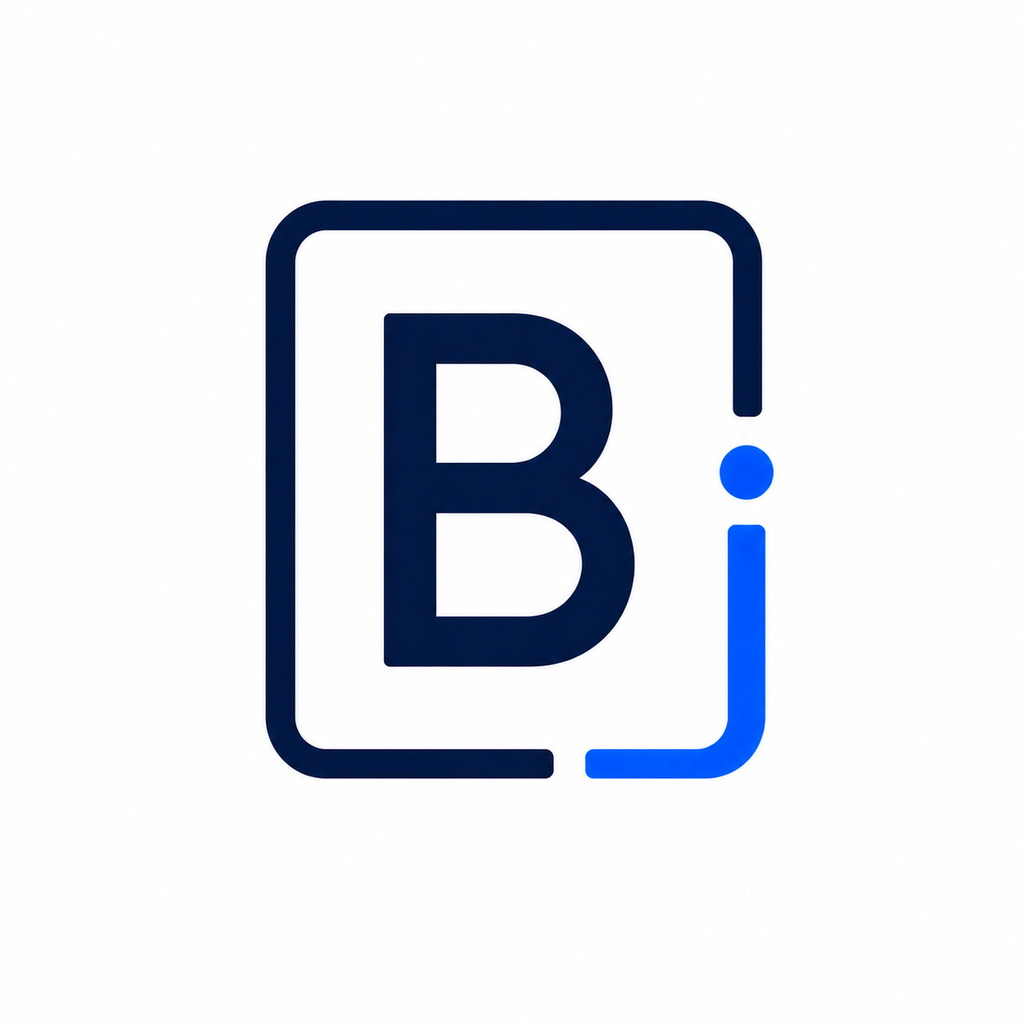
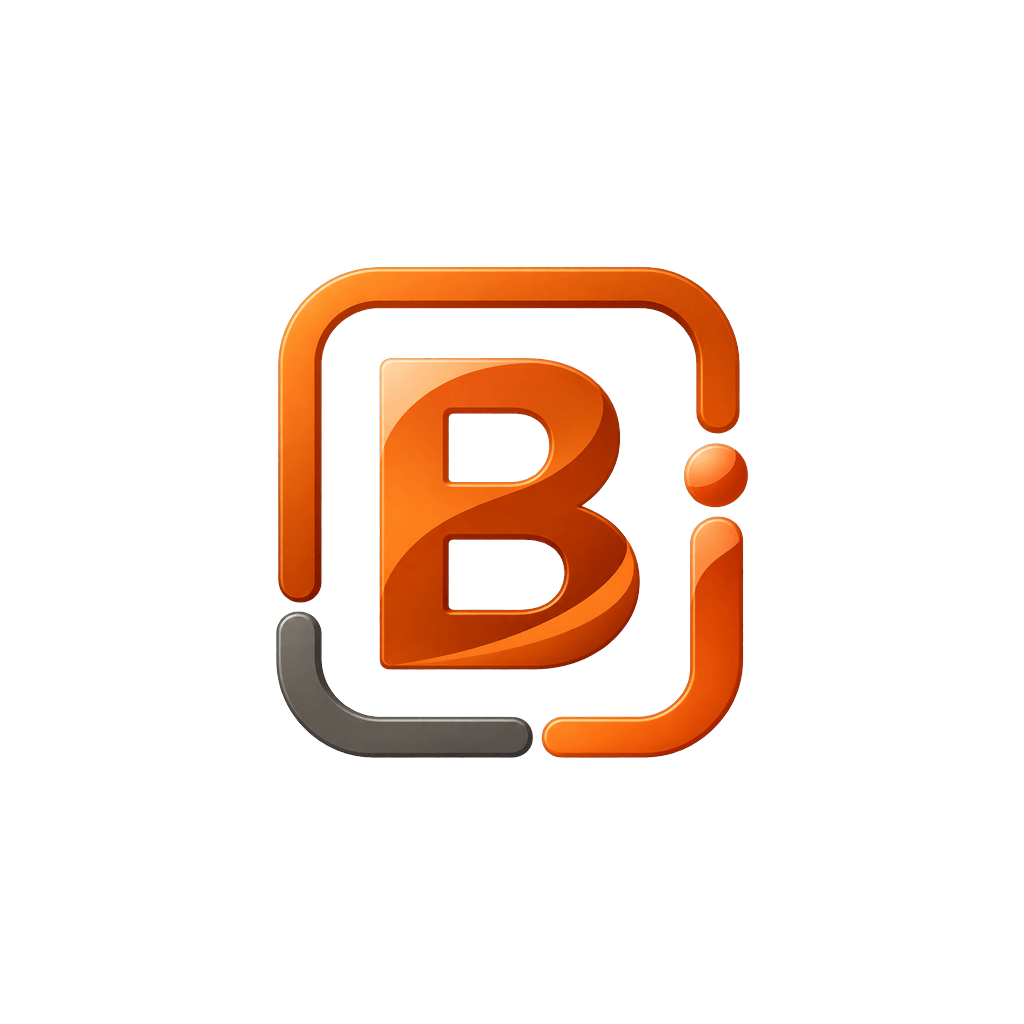
feat: rebrand accent colors from indigo to orange
Switch the app's brand accent from indigo (#4338CA) to orange (#D95F18)
and refresh the logo/splash assets to match.

- InvoiceTemplateScreen: first two accent presets now #D95F18 and #9B4000
- app.json: splash and Android adaptive icon backgrounds set to #FFF8F5
- assets: replace logo, icon, splash and watermark PNGs with the new
  orange artwork (also much smaller — 535KB down to 57-178KB each)

Changed region(s): [[0.25, 0.1875, 0.7812, 0.7812]]

diff --git a/src/screens/InvoiceTemplateScreen.tsx b/src/screens/InvoiceTemplateScreen.tsx
@@ -18,7 +18,7 @@ import { alpha, appColors, fontStyles, radii, typeScale } from '@/theme/theme';
 import { A4_RATIO, withFittedViewport } from '@/utils/invoicePreview';
 
 // Professional preset accents. Index 0 (indigo) matches the brand + backend default.
-const ACCENT_PRESETS = ['#4338CA', '#2563EB', '#0D9488', '#16A34A', '#475569', '#E11D48'] as const;
+const ACCENT_PRESETS = ['#D95F18', '#9B4000', '#0D9488', '#16A34A', '#475569', '#E11D48'] as const;
 
 // Mirrors DEFAULT_INVOICE_NOTES in backend invoiceHtml.js — what prints when the
 // business leaves custom notes blank. Shown as the field placeholder.
